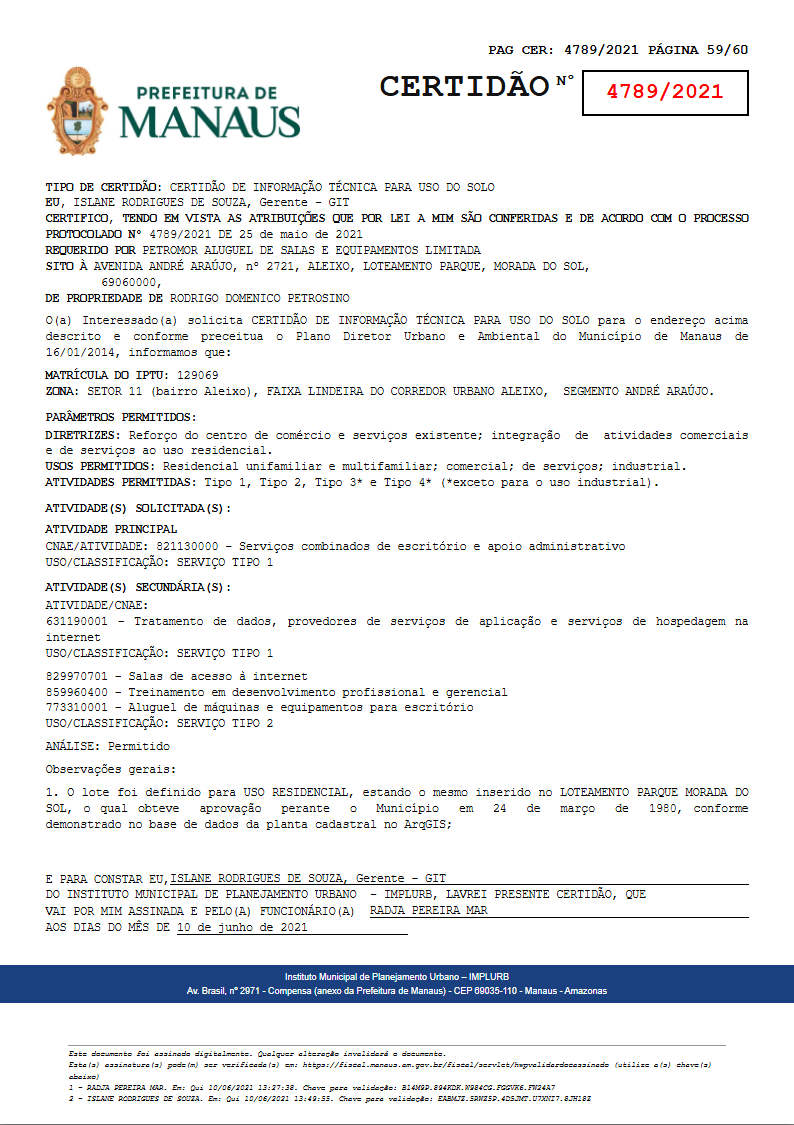
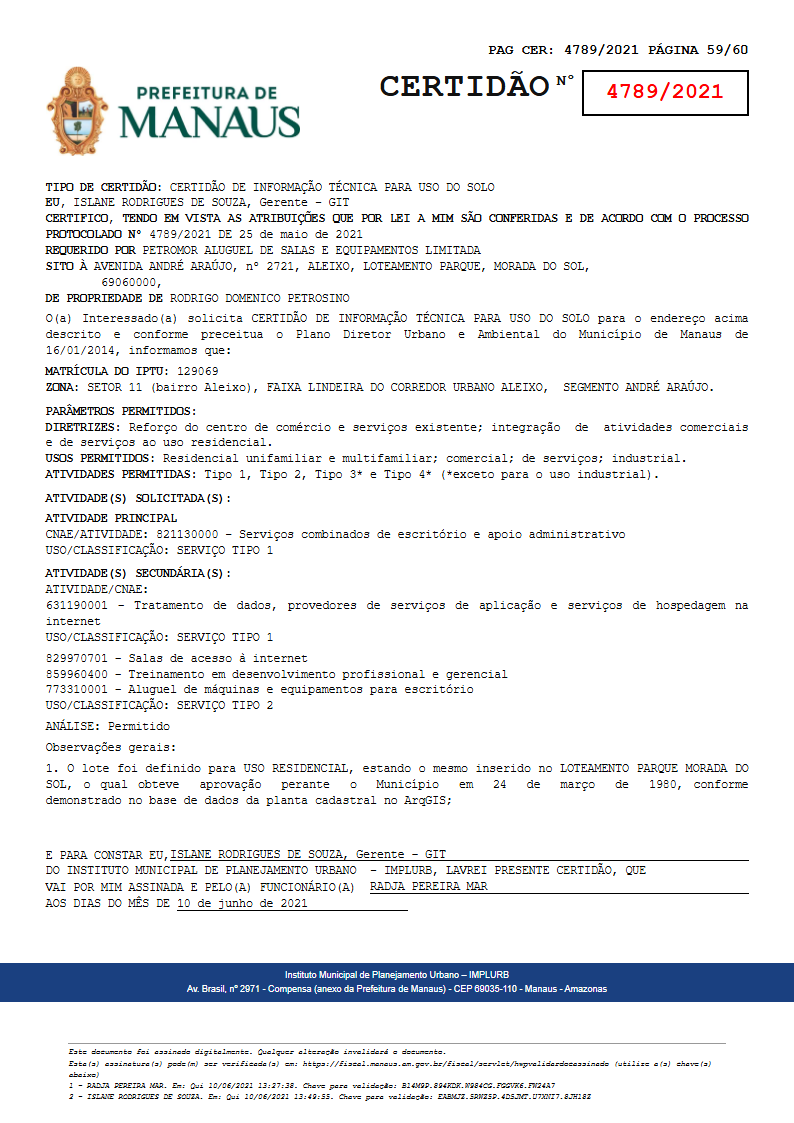
auto-sync: 2026-04-27 10:35

diff --git a/dados/certidao-template.html b/dados/certidao-template.html
@@ -91,13 +91,14 @@
   }
 
   .body p {
-    margin-bottom: 7px;
+    margin-bottom: 5px;
+    margin-top: 0;
   }
 
   .section-title {
     font-weight: bold;
-    margin-top: 10px;
-    margin-bottom: 2px;
+    margin-top: 8px;
+    margin-bottom: 0px;
     display: block;
     font-family: "Courier New", Courier, monospace;
     font-size: 11.5px;
@@ -105,8 +106,8 @@
 
   .sub-title {
     font-weight: bold;
-    margin-top: 5px;
-    margin-bottom: 1px;
+    margin-top: 4px;
+    margin-bottom: 0px;
     display: block;
     font-family: "Courier New", Courier, monospace;
     font-size: 11.5px;

diff --git a/dados/build-html.py b/dados/build-html.py
@@ -96,13 +96,14 @@ html = """<!DOCTYPE html>
   }
 
   .body p {
-    margin-bottom: 7px;
+    margin-bottom: 5px;
+    margin-top: 0;
   }
 
   .section-title {
     font-weight: bold;
-    margin-top: 10px;
-    margin-bottom: 2px;
+    margin-top: 8px;
+    margin-bottom: 0px;
     display: block;
     font-family: "Courier New", Courier, monospace;
     font-size: 11.5px;
@@ -110,8 +111,8 @@ html = """<!DOCTYPE html>
 
   .sub-title {
     font-weight: bold;
-    margin-top: 5px;
-    margin-bottom: 1px;
+    margin-top: 4px;
+    margin-bottom: 0px;
     display: block;
     font-family: "Courier New", Courier, monospace;
     font-size: 11.5px;
